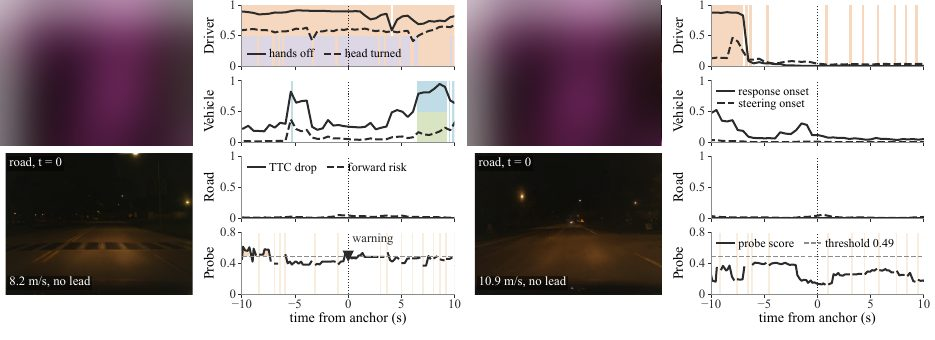
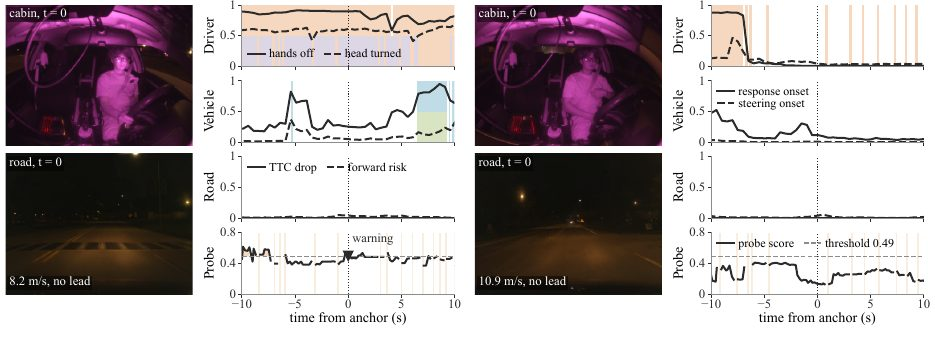
tridrive: un-blur paper figures (teaser, causal cases)

Changed region(s): [[0.0, 0.0, 0.2171, 0.4412], [0.4963, 0.0, 0.7134, 0.4412]]

diff --git a/tools/projpipe/tridrive_export.py b/tools/projpipe/tridrive_export.py
@@ -163,14 +163,14 @@ put("probe", "probe.json", {"schema": "paired/1", "mode": "dumbbell", "axis": {"
 
 # ====================================================================== 4. figures
 FIG = [("arch", os.path.join(D, "AAAI/ICLR/supplimentary/video/build/arch.png"), 2000, 350_000, None, None),
-       ("teaser", os.path.join(D, "AAAI/ICLR/supplimentary/video/build/teaser.png"), 2400, 450_000, (0, 0, 1, 1880 / 2641), [(0.003, 0.105, 0.147, 0.365), (0.228, 0.133, 0.283, 0.344), (0.685, 0.133, 0.997, 0.344)]),
+       ("teaser", os.path.join(D, "AAAI/ICLR/supplimentary/video/build/teaser.png"), 2400, 450_000, (0, 0, 1, 1880 / 2641), None),
        ("user_study_bars", os.path.join(D, "ICLR/figures/user_study_bars_n14.png"), 1650, 200_000, None, None),
        ("hw_experiment", os.path.join(D, "AAAI/ICLR/supplimentary/video/video_frame/experiment.jpg"), 1600, 300_000, None, None),
        ("hw_deployment1", os.path.join(D, "AAAI/ICLR/supplimentary/video/video_frame/deployment1.jpg"), 1600, 300_000, None, None),
        ("hw_deployment2", os.path.join(D, "AAAI/ICLR/supplimentary/video/video_frame/deployment2.jpg"), 1600, 300_000, None, None)]
 cc_pdf = os.path.join(D, "ICLR/figures/causal_cases.pdf"); cc_png = os.path.join(WORK, "causal_cases.png")
 if os.path.exists(cc_pdf) and not os.path.exists(cc_png): subprocess.run(["pdftoppm", "-r", "170", "-png", "-singlefile", cc_pdf, cc_png[:-4]], check=True)
-if os.path.exists(cc_png): FIG.append(("causal_cases", cc_png, 2200, 400_000, None, [(0.0, 0.0, 0.207, 0.43), (0.5, 0.0, 0.707, 0.43)]))  # night cabin stills from the deployment device → blurred
+if os.path.exists(cc_png): FIG.append(("causal_cases", cc_png, 2200, 400_000, None, None))  # night cabin stills from the deployment device paper figure, unblurred
 for key, src, w, cap, box, blur in FIG:
     dst = os.path.join(MEDIA, f"fig_{key}.jpg"); h = entry_hash({"w": w, "cap": cap, "box": box, "blur": blur}, src)
     if not A.skip_media and (A.force or not ledger.done("fig_" + key, h) or not os.path.exists(dst)): q = jpeg_fit(src, dst, max_w=w, cap_bytes=cap, box=box, blur_boxes=blur); ledger.mark("fig_" + key, h, q=q)
@@ -178,7 +178,7 @@ for key, src, w, cap, box, blur in FIG:
         files[f"fig_{key}"] = media_entry(f"fig_{key}.jpg")
         items.append({"id": f"fig_{key}", "kind": "figure", "title": key, "files": {"image": f"static/media/fig_{key}.jpg"}, "bytes": {"image": os.path.getsize(dst)}, "first_view": key == "teaser",
                       "privacy": {"kind": "figure", "source_pixels": key.startswith("hw_") or key == "teaser", "manual_review": "pending", "reviewed_by": None, "reviewed_at": None,
-                                  "note": "cabin regions blurred, participant row cropped" if key == "teaser" else ("cabin panels blurred (deployment device)" if key == "causal_cases" else ("face-free hardware photo" if key.startswith("hw_") else "paper figure"))},
+                                  "note": "participant row cropped (cabin regions unblurred)" if key == "teaser" else ("paper figure (cabin panels unblurred)" if key == "causal_cases" else ("face-free hardware photo" if key.startswith("hw_") else "paper figure"))},
                       "provenance": {"source": os.path.basename(src)}, "entry_hash": h})
         print(f"  fig   {key:18s} {os.path.getsize(dst)//1024:5d} KB")
 
